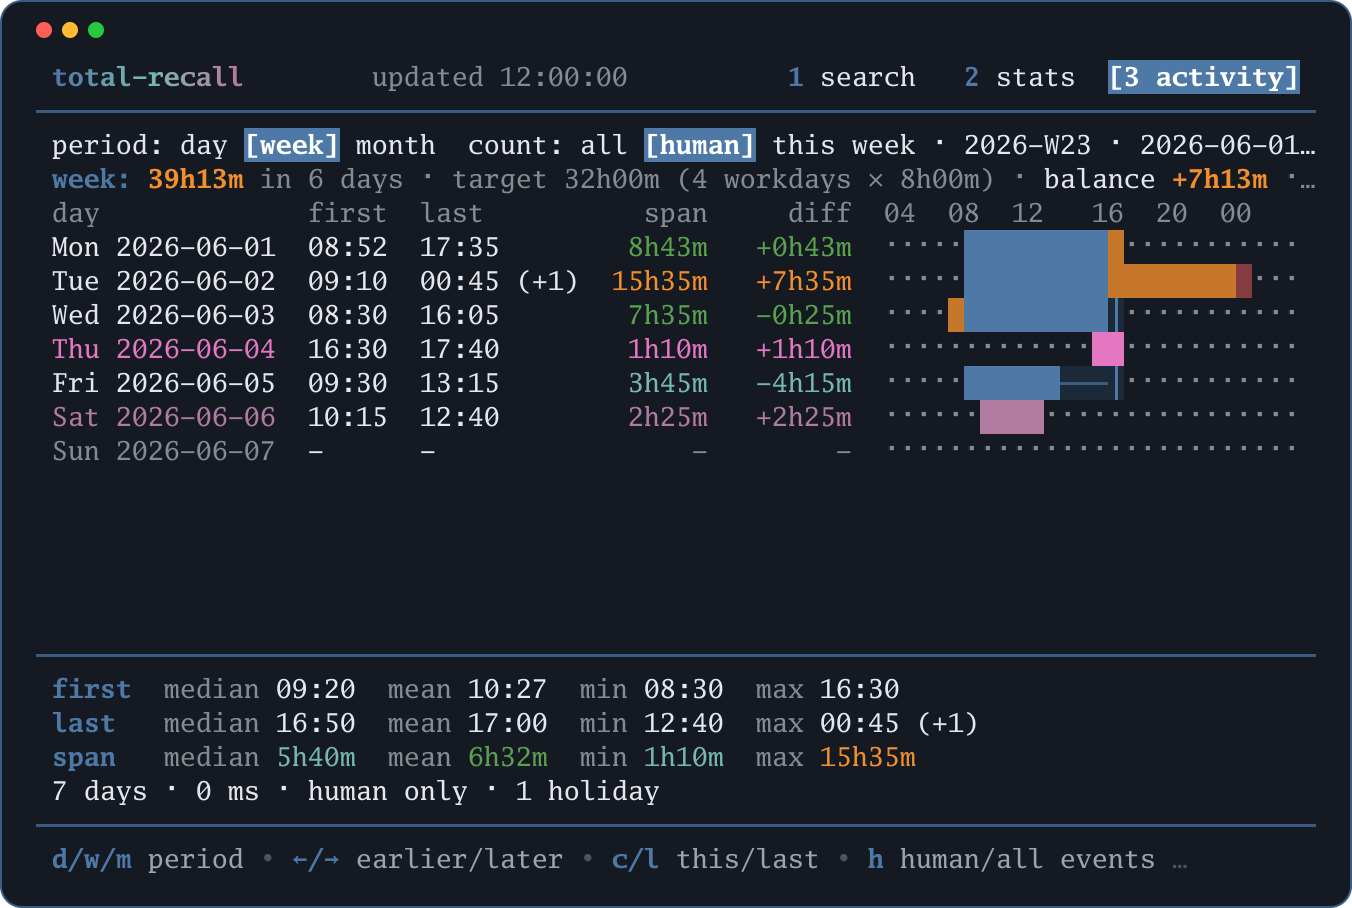
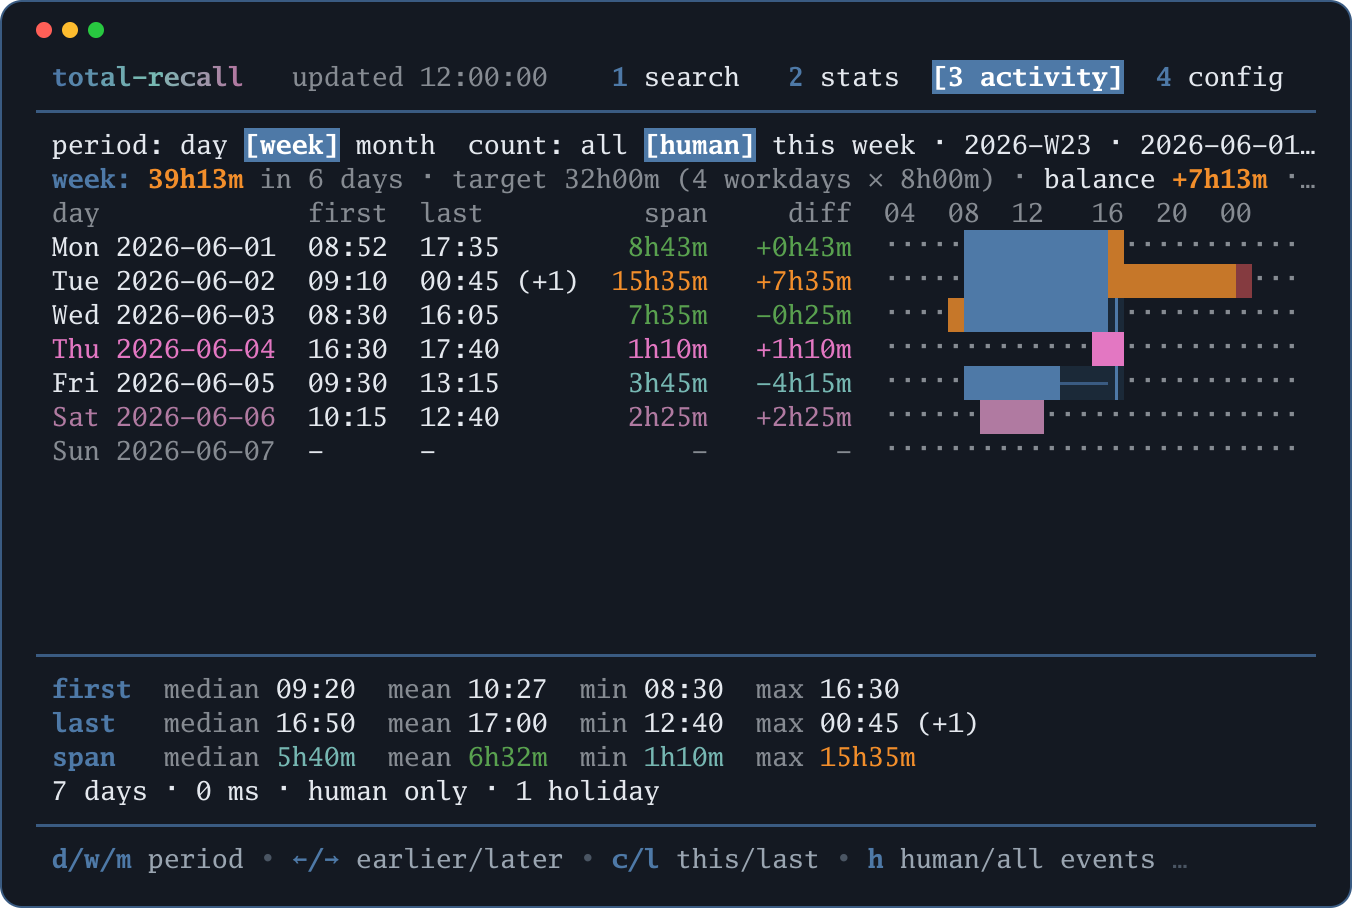
feat(screenshot): render the config shots in a synthetic home
The shots get an Env: the demo archive linked into a temporary home with
a config file from the template, a Claude Code settings file with the
hooks, a backup copy of the night before and the binary on PATH, so every
path shows as ~/… and the setup page finds everything. The demo archive
is vacuumed after the build and stamps ingested_at with its own clock, so
size, page count and the last ingest are the same in every build. The
shots never wait for a reload tick.

Changed region(s): [[0.6213, 0.0617, 0.963, 0.1233], [0.2175, 0.0617, 0.5592, 0.0925]]

diff --git a/internal/screenshot/env.go b/internal/screenshot/env.go
@@ -1,0 +1,115 @@
+package screenshot
+
+import (
+	"encoding/json"
+	"errors"
+	"fmt"
+	"os"
+	"path/filepath"
+	"time"
+
+	"github.com/seletz/total-recall/internal/config"
+	"github.com/seletz/total-recall/internal/demo"
+	"github.com/seletz/total-recall/internal/ops"
+	"github.com/seletz/total-recall/internal/store"
+	"github.com/seletz/total-recall/internal/tui/configview"
+)
+
+// Env is what the shots render against: the demo archive and a synthetic
+// home directory with the files the config view looks at. Every path the
+// frames show lies below Home, so it appears as "~/…".
+type Env struct {
+	// Store is the demo archive, read-only.
+	Store *store.Store
+	// Home is the synthetic home directory.
+	Home string
+	// Config is the configuration read from Home/.config/total-recall.
+	Config *config.Config
+	// View are the options of the config view: the installation the setup
+	// page finds.
+	View configview.Options
+}
+
+// Version is what the setup page shows as the version of the binary.
+const Version = "1.2.0"
+
+// backupAt is the time of the backup copy in the synthetic home: the night
+// before the demo's clock.
+var backupAt = time.Date(2026, 11, 2, 3, 0, 0, 0, demo.Location)
+
+// NewEnv opens the demo archive at dbPath read-only and lays out a home
+// directory below dir: a config file written from the template with the
+// archive linked in at the default place, a settings file of Claude Code
+// with the hooks, a backup copy of the night before, a projects directory
+// and the binary on PATH. The caller removes dir.
+func NewEnv(dbPath, dir string) (*Env, error) {
+	home := filepath.Join(dir, "home")
+	paths := map[string]string{
+		"config":   filepath.Join(home, ".config", "total-recall", "config.toml"),
+		"db":       filepath.Join(home, ".local", "share", "total-recall", "archive.db"),
+		"settings": filepath.Join(home, ".claude", "settings.json"),
+		"backup":   filepath.Join(home, "Documents", "total-recall", store.BackupFileName(backupAt)),
+		"binary":   filepath.Join(home, ".local", "bin", "total-recall"),
+	}
+	for _, p := range paths {
+		if err := os.MkdirAll(filepath.Dir(p), 0o755); err != nil {
+			return nil, fmt.Errorf("screenshot: %w", err)
+		}
+	}
+	if err := os.MkdirAll(filepath.Join(home, ".claude", "projects"), 0o755); err != nil {
+		return nil, fmt.Errorf("screenshot: %w", err)
+	}
+	abs, err := filepath.Abs(dbPath)
+	if err != nil {
+		return nil, fmt.Errorf("screenshot: %w", err)
+	}
+	if err := os.Symlink(abs, paths["db"]); err != nil && !errors.Is(err, os.ErrExist) {
+		return nil, fmt.Errorf("screenshot: %w", err)
+	}
+	if err := config.WriteTemplate(paths["config"]); err != nil && !errors.Is(err, os.ErrExist) {
+		return nil, fmt.Errorf("screenshot: %w", err)
+	}
+	if err := os.WriteFile(paths["settings"], settingsJSON(), 0o644); err != nil {
+		return nil, fmt.Errorf("screenshot: %w", err)
+	}
+	if err := os.WriteFile(paths["backup"], []byte("not a real backup"), 0o644); err != nil {
+		return nil, fmt.Errorf("screenshot: %w", err)
+	}
+	if err := os.Chtimes(paths["backup"], backupAt, backupAt); err != nil {
+		return nil, fmt.Errorf("screenshot: %w", err)
+	}
+	if err := os.WriteFile(paths["binary"], []byte("#!/bin/sh\n"), 0o755); err != nil {
+		return nil, fmt.Errorf("screenshot: %w", err)
+	}
+	cfg, err := config.Load(config.Options{GOOS: "linux", Home: home, Getenv: func(string) string { return "" }})
+	if err != nil {
+		return nil, fmt.Errorf("screenshot: %w", err)
+	}
+	st, err := store.OpenReadOnly(dbPath)
+	if err != nil {
+		return nil, fmt.Errorf("screenshot: %w", err)
+	}
+	return &Env{
+		Store: st, Home: home, Config: cfg,
+		View: configview.Options{
+			Version:      Version,
+			SettingsFile: paths["settings"],
+			Getenv:       func(string) string { return "" },
+			LookPath:     func(string) (string, error) { return paths["binary"], nil },
+			Executable:   func() (string, error) { return paths["binary"], nil },
+			VersionOf:    func(string) (string, error) { return Version, nil },
+		},
+	}, nil
+}
+
+// Close closes the archive.
+func (e *Env) Close() error { return e.Store.Close() }
+
+// settingsJSON is a Claude Code settings file with the hook block.
+func settingsJSON() []byte {
+	b, err := json.MarshalIndent(map[string]any{"theme": "dark", "hooks": ops.ClaudeHooks("total-recall")["hooks"]}, "", "  ")
+	if err != nil {
+		panic(err)
+	}
+	return b
+}

diff --git a/internal/screenshot/frames.go b/internal/screenshot/frames.go
@@ -97,6 +97,14 @@ var Shots = []Shot{
 		Caption: "Hilfe-Overlay mit den Tasten der Statistik und den globalen Tasten"},
 	{Name: "heatmap-compact", Width: CompactWidth, Height: CompactHeight, Start: tui.ViewStats, Now: statsNow, Keys: []string{"h"},
 		Caption: "Statistik mit Heatmap bei 80×24: kompaktes Layout, Tabelle ausgeblendet"},
+	{Name: "config-status", Width: Width, Height: Height, Start: tui.ViewConfig, Now: searchNow,
+		Caption: "Config, Seite Status: Archiv, Schema, Zähler, letztes Backup, Fehler des Logs"},
+	{Name: "config-settings", Width: Width, Height: Height, Start: tui.ViewConfig, Now: searchNow, Keys: []string{"tab", "j", "j", "j", "j", "enter"},
+		Caption: "Config, Seite Settings: das Backup-Verzeichnis wird in der Eingabezeile bearbeitet"},
+	{Name: "config-actions", Width: Width, Height: Height, Start: tui.ViewConfig, Now: searchNow, Keys: []string{"shift+tab", "shift+tab", "enter"},
+		Caption: "Config, Seite Actions: Backup wartet auf die Bestätigung"},
+	{Name: "config-setup", Width: Width, Height: Height, Start: tui.ViewConfig, Now: searchNow, Keys: []string{"shift+tab"},
+		Caption: "Config, Seite Setup: Prüfungen der Installation und der Hook-Block"},
 }
 
 // workHours mirrors the defaults of the [work] config table.
@@ -107,17 +115,23 @@ var workHours = store.WorkHours{
 
 // options builds the app options of a shot: the config defaults (time zone
 // Europe/Berlin, day start 04:00, working time, holidays of
-// Baden-Württemberg, own messages only), the demo's home directory, text
+// Baden-Württemberg, own messages only), the synthetic home directory, text
 // charts and the shot's clock.
-func options(s Shot, st *store.Store) (tui.Options, error) {
-	if st == nil {
+func options(s Shot, env *Env) (tui.Options, error) {
+	if env == nil || env.Store == nil {
 		return tui.Options{}, fmt.Errorf("shot %s: no archive", s.Name)
 	}
 	now := s.Now
+	cv := env.View
+	cv.Now = func() time.Time { return now }
 	return tui.Options{
-		Store: st, Location: berlin, Now: func() time.Time { return now },
+		Store: env.Store, Location: berlin, Now: func() time.Time { return now },
 		Start: s.Start, Query: s.Query, Graphics: tui.GraphicsText, NoMouse: true,
-		DayStart: 4 * time.Hour, Work: workHours, Holidays: holiday.New("Baden-Württemberg"), HumanOnly: true, Home: demo.Home,
+		DayStart: 4 * time.Hour, Work: workHours, Holidays: holiday.New("Baden-Württemberg"), HumanOnly: true, Home: env.Home,
+		Config: env.Config, ConfigView: cv,
+		// A shot never waits for a reload tick: the renderer runs commands
+		// synchronously, and a tick would block it.
+		Tick: func(time.Duration, func(time.Time) tea.Msg) tea.Cmd { return nil },
 	}, nil
 }
 
@@ -125,8 +139,8 @@ func options(s Shot, st *store.Store) (tui.Options, error) {
 // demo archive, see package demo) and returns its final frame. Commands
 // run synchronously as they are returned, so every load has landed when
 // the frame is taken.
-func Render(s Shot, st *store.Store) (Frame, error) {
-	opts, err := options(s, st)
+func Render(s Shot, env *Env) (Frame, error) {
+	opts, err := options(s, env)
 	if err != nil {
 		return Frame{}, err
 	}
@@ -144,10 +158,10 @@ func Render(s Shot, st *store.Store) (Frame, error) {
 }
 
 // RenderAll renders every one of Shots.
-func RenderAll(st *store.Store) ([]Frame, error) {
+func RenderAll(env *Env) ([]Frame, error) {
 	out := make([]Frame, 0, len(Shots))
 	for _, s := range Shots {
-		f, err := Render(s, st)
+		f, err := Render(s, env)
 		if err != nil {
 			return nil, err
 		}
@@ -157,13 +171,15 @@ func RenderAll(st *store.Store) ([]Frame, error) {
 }
 
 // keyPress builds the key press for a name: a single character or one of
-// enter, tab, esc.
+// enter, tab, shift+tab, esc.
 func keyPress(name string) tea.KeyPressMsg {
 	switch name {
 	case "enter":
 		return tea.KeyPressMsg{Code: tea.KeyEnter}
 	case "tab":
 		return tea.KeyPressMsg{Code: tea.KeyTab}
+	case "shift+tab":
+		return tea.KeyPressMsg{Code: tea.KeyTab, Mod: tea.ModShift}
 	case "esc":
 		return tea.KeyPressMsg{Code: tea.KeyEscape}
 	}

diff --git a/internal/screenshot/frames_test.go b/internal/screenshot/frames_test.go
@@ -21,11 +21,23 @@ func TestMain(m *testing.M) {
 	os.Exit(fixturedb.DemoMain(m))
 }
 
+// env is the demo archive with a synthetic home below a temporary
+// directory.
+func env(t *testing.T) *Env {
+	t.Helper()
+	_, path := fixturedb.Demo(t)
+	e, err := NewEnv(path, t.TempDir())
+	if err != nil {
+		t.Fatal(err)
+	}
+	t.Cleanup(func() { _ = e.Close() })
+	return e
+}
+
 // frames renders every shot against the demo archive.
 func frames(t *testing.T) []Frame {
 	t.Helper()
-	st, _ := fixturedb.Demo(t)
-	out, err := RenderAll(st)
+	out, err := RenderAll(env(t))
 	if err != nil {
 		t.Fatal(err)
 	}
@@ -49,6 +61,10 @@ func TestRenderAll(t *testing.T) {
 		"compact":         {"[3 activity]", "week:"},
 		"help":            {"[2 stats]", "keys: stats", "closes this help", "esc back"},
 		"heatmap-compact": {"[2 stats]", "░▒▓█", "heatmap"},
+		"config-status":   {"4 config]", "[status] settings projects actions setup", "~/.config/total-recall/config.toml", "~/.local/share/total-recall/archive.db", "schema", "sessions", "last backup", "~/Documents/total-recall/archive-2026-11-02.db.gz", "problems              none"},
+		"config-settings": {"4 config]", "status [settings]", "KEY", "VALUE", "ORIGIN", "[backup]", "enter saves, esc cancels"},
+		"config-actions":  {"4 config]", "[actions] setup", "▸ backup", "maintenance (dry run)", "migrate", "y confirms, esc cancels"},
+		"config-setup":    {"4 config]", "actions [setup]", "config      √", "hooks       √ ~/.claude/settings.json: SessionStart, Stop, SubagentStop, SessionEnd", "binary      √ ~/.local/bin/total-recall on PATH, this version (1.2.0)", "backups     √", "transcripts √ ~/.claude/projects", "archive     √ ~/.local/share/total-recall/archive.db", `"command": "total-recall ingest --hook --detach"`},
 	}
 	for _, f := range frames(t) {
 		t.Run(f.Shot.Name, func(t *testing.T) {
@@ -84,13 +100,13 @@ func TestRenderAll(t *testing.T) {
 // TestRenderDeterministic: the same shot renders the same frame twice; the
 // fixed clock keeps the durations in the status lines at zero.
 func TestRenderDeterministic(t *testing.T) {
-	st, _ := fixturedb.Demo(t)
+	e := env(t)
 	for _, s := range Shots {
-		f1, err := Render(s, st)
+		f1, err := Render(s, e)
 		if err != nil {
 			t.Fatal(err)
 		}
-		f2, err := Render(s, st)
+		f2, err := Render(s, e)
 		if err != nil {
 			t.Fatal(err)
 		}
@@ -105,6 +121,9 @@ func TestRenderDeterministic(t *testing.T) {
 func TestRenderNeedsArchive(t *testing.T) {
 	for _, s := range Shots {
 		if _, err := Render(s, nil); err == nil {
+			t.Errorf("shot %s renders without an archive", s.Name)
+		}
+		if _, err := Render(s, &Env{}); err == nil {
 			t.Errorf("shot %s renders without an archive", s.Name)
 		}
 	}

diff --git a/internal/demo/demo.go b/internal/demo/demo.go
@@ -100,7 +100,9 @@ func Build(ctx context.Context, path string) (Summary, error) {
 			return Summary{}, fmt.Errorf("demo: %w", err)
 		}
 	}
-	st, err := store.Open(path)
+	// The archive says it was last read at Now, so a status rendered
+	// against it does not depend on when it was built.
+	st, err := store.Open(path, store.WithClock(func() time.Time { return Now }))
 	if err != nil {
 		return Summary{}, fmt.Errorf("demo: %w", err)
 	}
@@ -148,6 +150,13 @@ func relocate(ctx context.Context, dbPath, from, to string) (Summary, error) {
 		if _, err := db.ExecContext(ctx, q, to, len(from)+1, len(from), from); err != nil {
 			return Summary{}, fmt.Errorf("demo: relocate: %w", err)
 		}
+	}
+	// The page layout after the ingest depends on the length of the
+	// temporary path; a vacuum lays the file out from its content alone,
+	// so size and page count are the same in every build (the status of
+	// the TUI shows them).
+	if _, err := db.ExecContext(ctx, "VACUUM"); err != nil {
+		return Summary{}, fmt.Errorf("demo: vacuum: %w", err)
 	}
 	var s Summary
 	if err := db.QueryRowContext(ctx, "SELECT (SELECT count(*) FROM sessions), (SELECT count(*) FROM events)").Scan(&s.Sessions, &s.Events); err != nil {

diff --git a/tools/screenshots/main.go b/tools/screenshots/main.go
@@ -23,7 +23,6 @@ import (
 
 	"github.com/seletz/total-recall/internal/demo"
 	"github.com/seletz/total-recall/internal/screenshot"
-	"github.com/seletz/total-recall/internal/store"
 )
 
 func main() {
@@ -55,14 +54,18 @@ func run() error {
 		}
 		fmt.Fprintf(os.Stderr, "  %d sessions, %d events\n", sum.Sessions, sum.Events)
 	}
-	st, err := store.OpenReadOnly(*db)
+	homeDir := filepath.Join(*work, "env")
+	if err := os.RemoveAll(homeDir); err != nil {
+		return err
+	}
+	env, err := screenshot.NewEnv(*db, homeDir)
 	if err != nil {
 		return err
 	}
-	defer func() { _ = st.Close() }()
+	defer func() { _ = env.Close() }()
 
 	fmt.Fprintln(os.Stderr, "rendering frames …")
-	frames, err := screenshot.RenderAll(st)
+	frames, err := screenshot.RenderAll(env)
 	if err != nil {
 		return err
 	}
